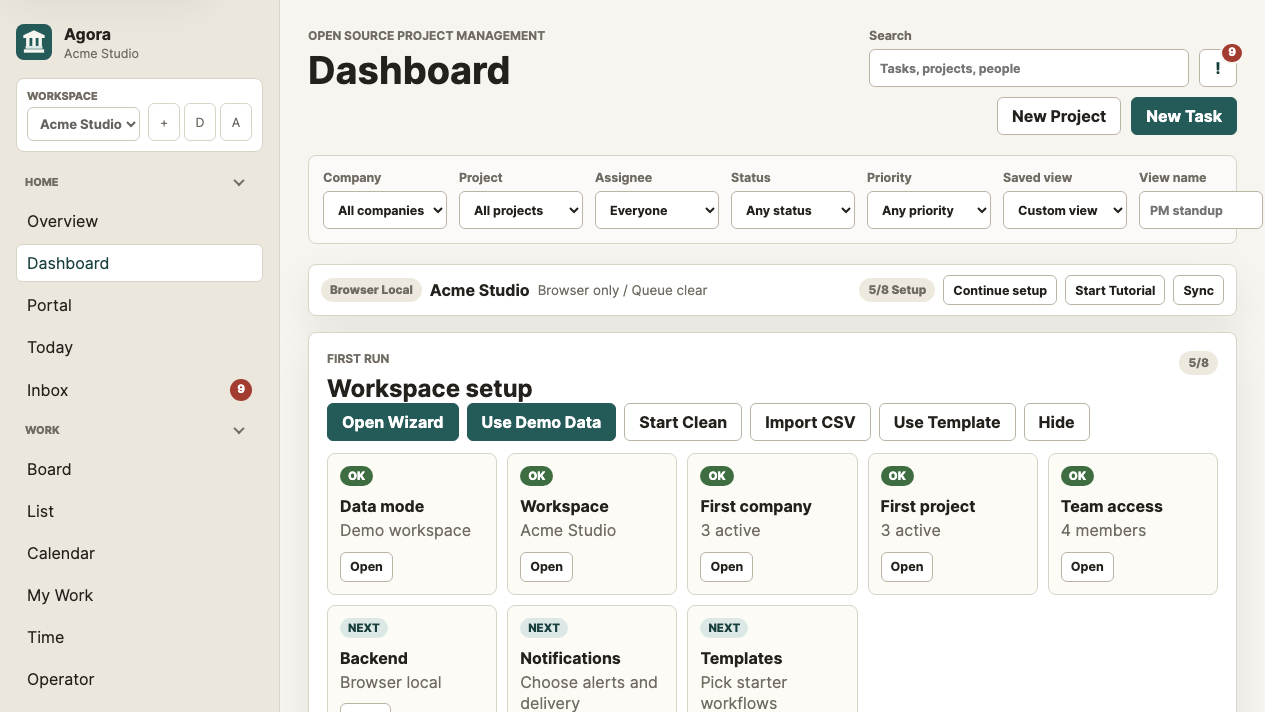
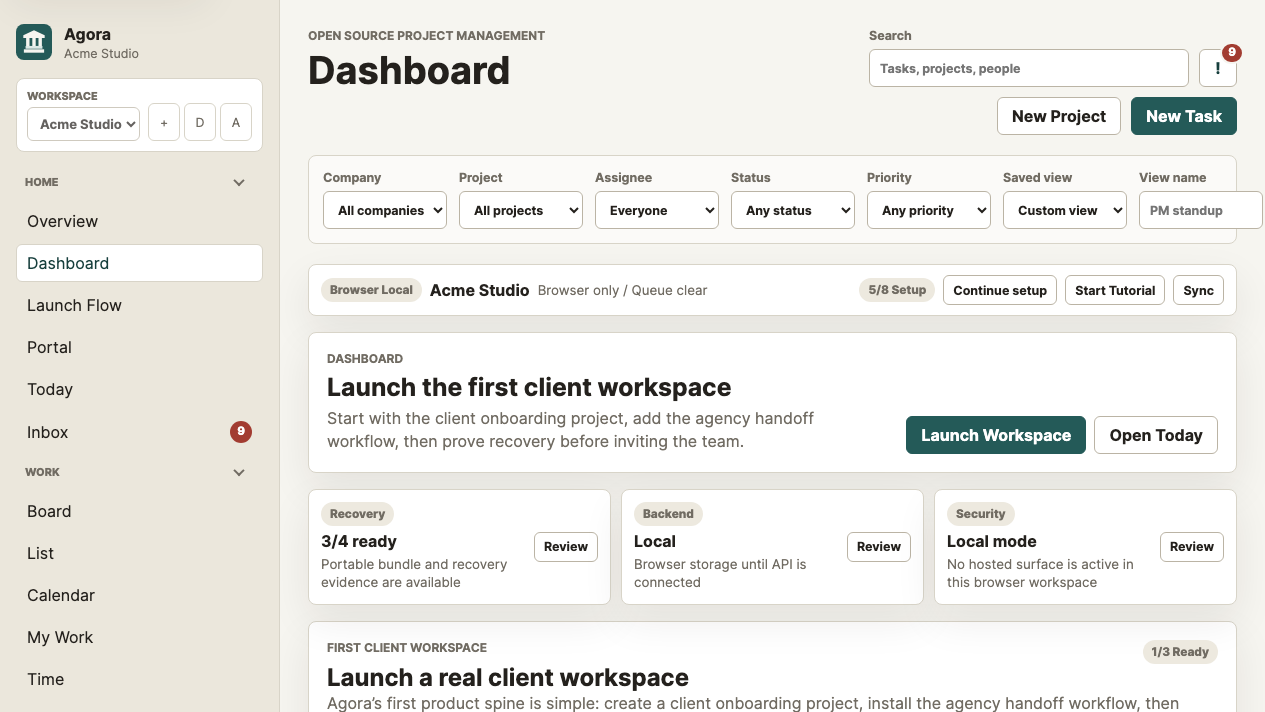
Expand visual QA coverage

diff --git a/scripts/capture-screenshots.js b/scripts/capture-screenshots.js
@@ -15,9 +15,15 @@ const ROUTE_WAIT_MS = Number(process.env.AGORA_SCREENSHOT_WAIT_MS || 5000);
 const captures = [
   { route: "landing", file: "agora-landing.png", width: 1265, height: 712 },
   { route: "dashboard", file: "agora-dashboard.png", width: 1265, height: 712 },
+  { route: "launch", file: "agora-launch-flow.png", width: 1265, height: 712 },
+  { route: "readiness", file: "agora-readiness.png", width: 1265, height: 712 },
   { route: "board", file: "agora-board.png", width: 1265, height: 712 },
   { route: "inbox", file: "agora-inbox.png", width: 1265, height: 712 },
   { route: "marketplace", file: "agora-marketplace.png", width: 1265, height: 712 },
+  { route: "data", file: "agora-data.png", width: 1265, height: 712 },
+  { route: "settings", file: "agora-settings.png", width: 1265, height: 712 },
+  { route: "launch", file: "agora-mobile-launch.png", width: 500, height: 844 },
+  { route: "readiness", file: "agora-mobile-readiness.png", width: 500, height: 844 },
   { route: "daily", file: "agora-mobile-today.png", width: 500, height: 844 }
 ];
 
@@ -106,8 +112,11 @@ function assertRouteRendered(capture, dom) {
 
 function routeTitle(route) {
   const titles = {
+    data: "Data",
     daily: "Today",
-    landing: "Agora"
+    landing: "Agora",
+    launch: "Launch Flow",
+    readiness: "Readiness"
   };
   return titles[route] || route.charAt(0).toUpperCase() + route.slice(1);
 }

diff --git a/scripts/golden-path-qa.js b/scripts/golden-path-qa.js
@@ -28,6 +28,35 @@ const checks = [
     ]
   },
   {
+    name: "Guided launch flow",
+    route: "launch",
+    width: 1265,
+    height: 712,
+    required: [
+      "Launch the first client workspace",
+      "Launch progress",
+      "Create the client workspace",
+      "Install the handoff workflow",
+      "Prove recovery",
+      "Invite the first teammate"
+    ]
+  },
+  {
+    name: "Production readiness audit",
+    route: "readiness",
+    width: 1265,
+    height: 712,
+    required: [
+      "Production readiness audit",
+      "First client workspace",
+      "Hosted launch gates",
+      "API and sync health",
+      "Portable restore path",
+      "Access and audit controls",
+      "Power-user checks"
+    ]
+  },
+  {
     name: "Template to project path",
     route: "templates",
     width: 1265,
@@ -74,6 +103,22 @@ const checks = [
       "Create Backup",
       "Import bundle",
       "Preview Bundle"
+    ]
+  },
+  {
+    name: "Settings production controls",
+    route: "settings",
+    width: 1265,
+    height: 712,
+    required: [
+      "Settings",
+      "Open Members",
+      "Open Sync",
+      "Account",
+      "Workspace",
+      "Members",
+      "Sync",
+      "Trust"
     ]
   },
   {
